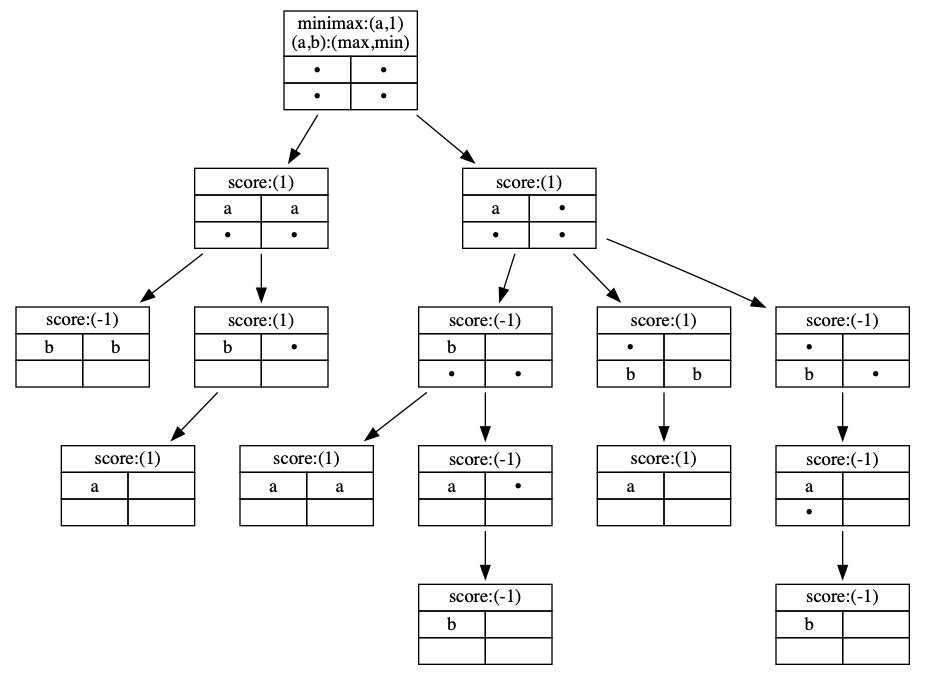
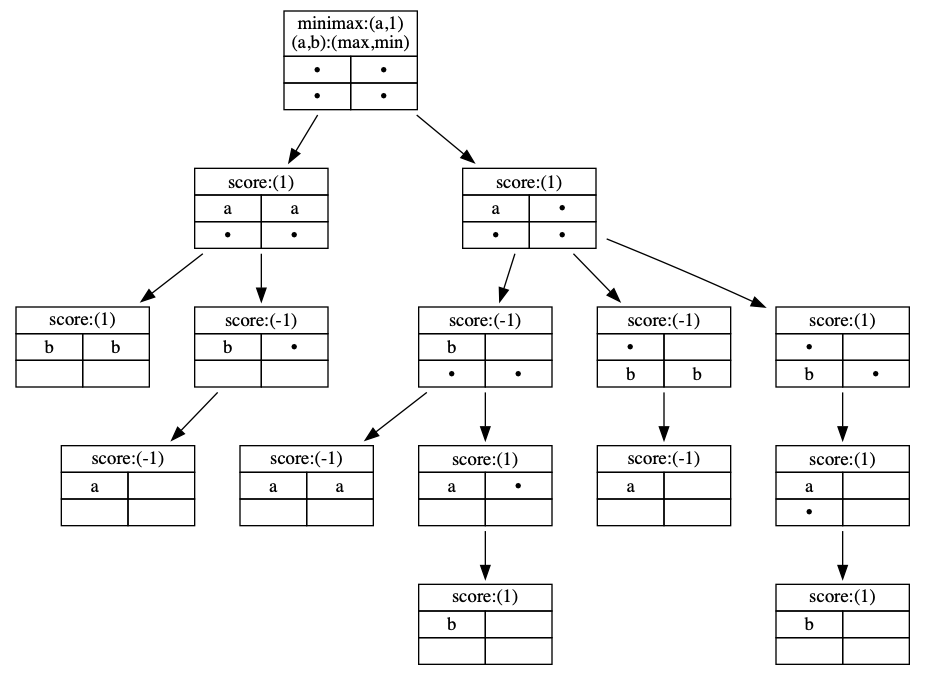
Main script for main minmaxasp

diff --git a/src/players/min_max_asp.py b/src/players/min_max_asp.py
@@ -40,7 +40,8 @@ def get_match(game_def, optimization, fixed_atoms, learned_rules, main_player):
     # Check if it can load from grounded atoms gotten from AS
     ctl.load(game_def.full_time)
     ctl.add("base",[],fixed_atoms)
-    ctl.add("base",[],"".join(learned_rules))
+    if not (learned_rules is None):
+        ctl.add("base",[],"".join(learned_rules))
     ctl.add("base",[],optimization)
     ctl.ground([("base", [])], context=Context())
     with ctl.solve(yield_=True) as handle:
@@ -53,7 +54,7 @@ def get_match(game_def, optimization, fixed_atoms, learned_rules, main_player):
             return None
         return matches[-1]
 
-def get_minmax_init(game_def, main_player, initial, learning_rules = True,
+def get_minmax_init(game_def, main_player, initial, learning_rules = True, learning_examples = False,
                     debug = False):
     """
     Computes the minmax using multiple calls to clingo.
@@ -73,14 +74,13 @@ def get_minmax_init(game_def, main_player, initial, learning_rules = True,
     """
     match  = get_match(game_def,case[main_player][main_player]['optimization'],
                        initial,[],'a')
-    examples_list = []
-    learned_rules = []
+    examples_list = [] if learning_examples else None
+    learned_rules = [] if learning_rules else None
     node = Tree.node_from_match_initial(match)
     minmax_match, minmax_tree = get_minmax_rec(game_def,match,node,0,
                                                main_player,
                                                learned_rules=learned_rules,
                                                list_examples=examples_list,
-                                               learning_rules=learning_rules,
                                                debug=debug)
     minmax_tree=Tree(minmax_tree.parent)
     final_score = minmax_match.goals[main_player]
@@ -89,8 +89,8 @@ def get_minmax_init(game_def, main_player, initial, learning_rules = True,
     return minmax_match, minmax_tree, examples_list, learned_rules
 
 def get_minmax_rec(game_def, match, node_top, top_step, main_player,
-                   old_fixed='', learned_rules=[], level = 0,
-                   list_examples=[], learning_rules=True, debug = False):
+                   old_fixed='', learned_rules=None, level = 0,
+                   list_examples=None, debug = False):
     """
     Computes the recursive call to compute the minmax with asp
     Args:
@@ -105,6 +105,8 @@ def get_minmax_rec(game_def, match, node_top, top_step, main_player,
         - learned_rules: The rules learned for the tree
         - level: The recursion level
     """
+    learning_examples = not (list_examples is None)
+    learning_rules = not (learned_rules is None)
     steps_to_analyze = match.steps[top_step:-1]
     minmax_match = match
     node_top = node_top.leaves[0]
@@ -133,9 +135,10 @@ def get_minmax_rec(game_def, match, node_top, top_step, main_player,
         if case[main_player][control]['current_is_better'](current_goal,
                                                            new_goal):
             # Choosing other action gets a worst result in the best case
-            ex = generate_example(match.steps[i].state,match.steps[i].action,
-                                  opt_match.steps[i].action)
-            list_examples.append(ex)
+            if learning_examples:
+                ex = generate_example(match.steps[i].state,match.steps[i].action,
+                                    opt_match.steps[i].action)
+                list_examples.append(ex)
             if learning_rules:
                 rule = generate_rule(game_def,match.steps[i].state,
                                      match.steps[i].action)
@@ -159,9 +162,10 @@ def get_minmax_rec(game_def, match, node_top, top_step, main_player,
         if case[main_player][control]['current_is_better'](current_goal,
                                                            new_goal):
             # Choosing other action gets a worst result in the best case
-            ex = generate_example(match.steps[i].state,match.steps[i].action,
-                                  opt_minmax.steps[i].action)
-            list_examples.append(ex)
+            if learning_examples:
+                ex = generate_example(match.steps[i].state,match.steps[i].action,
+                                    opt_minmax.steps[i].action)
+                list_examples.append(ex)
             if learning_rules:
                 rule = generate_rule(game_def,match.steps[i].state,
                                      match.steps[i].action)
@@ -172,9 +176,10 @@ def get_minmax_rec(game_def, match, node_top, top_step, main_player,
             # this section will remain unexplored
             continue
         #### New match is better for current player maximized
-        ex = generate_example(match.steps[i].state,opt_minmax.steps[i].action,
-                              match.steps[i].action)
-        list_examples.append(ex)
+        if learning_examples:
+            ex = generate_example(match.steps[i].state,opt_minmax.steps[i].action,
+                                match.steps[i].action)
+            list_examples.append(ex)
         if learning_rules:
             rule = generate_rule(game_def,match.steps[i].state,
                                  opt_minmax.steps[i].action)

diff --git a/src/main_mxasp.py b/src/main_mxasp.py
@@ -1,0 +1,52 @@
+#!/usr/bin/env python
+# -*- coding: utf-8 -*-
+
+import re
+from py_utils import *
+from structures import *
+from players import *
+from game_definitions import *
+
+def main_minmax_asp(path,plaintext,image_file_name,ilasp_examples_file,rules_file):
+    # remove trailing backslash as failsafe
+    html = not plaintext
+    path = re.sub(r"\/$","",path)
+    nim = GameNimDef(path)    
+    initial = nim.get_initial_time()
+    learn_examples = not (ilasp_examples_file is None)
+    learn_rules = not (rules_file is None)
+
+    minmax_match, min_max_tree, examples, learned_rules = get_minmax_init(nim,
+                                                           'a',
+                                                           initial,
+                                                           debug=True,learning_rules=learn_rules, learning_examples=learn_examples)
+    if learn_examples:
+        with open(ilasp_examples_file, "w") as text_file:
+            text_file.write("\n".join(examples))
+    if learn_rules:
+        with open(rules_file, "w") as text_file:
+            text_file.write("\n".join(learned_rules))
+
+    if(image_file_name is None):
+        print(minmax_match)
+    else:
+        min_max_tree.print_in_file(file_name=image_file_name,html=False)
+        print("Tree image saved in {}".format(image_file_name))
+
+
+if __name__ == "__main__":
+    parser = argparse.ArgumentParser(formatter_class=arg_metav_formatter)
+    parser.add_argument("--path", type=str, default="./game_definitions/nim",
+                        help="relative path of game" +
+                        " description language for game")
+    parser.add_argument("--image-file-name", type=str, default=None,
+                        help="output image file name")
+    parser.add_argument("--plaintext", default=False, action="store_true",
+                        help="whether plaintext should be used for visualization")
+    parser.add_argument("--ilasp-examples-file", type=str, default=None,
+                        help="relative path to location where ilasp examples will be saved")
+    parser.add_argument("--rules-file", type=str, default=None,
+                    help="relative path to save rules learned when tree rules are learned while computing minmax")
+    
+    args = parser.parse_args()
+    main_minmax_asp(args.path,args.plaintext,args.image_file_name,args.ilasp_examples_file,args.rules_file)

diff --git a/src/main_match.py b/src/main_match.py
@@ -15,15 +15,17 @@ def main_match(path,depth,pA_style,pB_style,debug):
     nim = GameNimDef(path)
     if "human" in [pA_style,pB_style]:
         debug = True
-    if pA_style != "strategy":
-        pA = {"name":pA_style}
-    else:
-        pA = {"name":pA_style,"strategy_path":path+"/strategy.lp"}
-    if pB_style != "strategy":
-        pB = {"name":pB_style}
-    else:
-        pB = {"name":pB_style,"strategy_path":path+"/strategy.lp"}
-    match = simulate_match(nim,[pA,pB],debug=debug)
+    
+    pl = []
+    for n,p in [("a",pA_style),("b",pB_style)]:
+        conf = {"name":p}
+        if p == "strategy":
+            conf["strategy_path"]=path+"/strategy.lp"
+        if p == "minmax_asp":
+            conf["main_player"]=n
+        pl.append(conf)
+
+    match = simulate_match(nim,pl,debug=debug)
     return match
 
 if __name__ == "__main__":
@@ -35,10 +37,10 @@ if __name__ == "__main__":
                         help="depth to which game should be played")
     parser.add_argument("--pA-style", type=str, default="random",
                         help="playing style for player a;"+
-                        " either 'random', 'strategy' or 'human'")
+                        " either 'minmax_asp', 'random', 'strategy' or 'human'")
     parser.add_argument("--pB-style", type=str, default="random",
                         help="playing style for player b;"+
-                        " either 'random', 'strategy' or 'human'")
+                        " either 'minmax_asp', 'random', 'strategy' or 'human'")
     parser.add_argument("--debug", default=False, action="store_true",
                         help="print debugging information from stack")
     args = parser.parse_args()

diff --git a/src/game_definitions/game_def.py b/src/game_definitions/game_def.py
@@ -24,7 +24,6 @@ class GameDef():
         self.full_time = path + "/full_time.lp"
         self.initial = path + "/initial.lp"
         self.all = path + "/all.lp"
-        # TODO think how to put this inside clingo..
 
 
     def state_to_ascii(self, state):
@@ -51,16 +50,34 @@ class GameDef():
             String with asciii representation
         """
         return NotImplementedError
+    
+    def get_initial_time(self):
+        """
+        Obtains the initial state in full time format
+        """
+        if(self.initial[-3:] == ".lp"):
+            with open(self.initial,"r") as File:
+                lines = File.readlines()
+                content = "".join(lines)
+        else:
+            content = self.initial + ""
+        content = content.replace(").",",0).")
+        content = content.replace("true","holds")
+        return content
+
+        
+
 
 class GameNimDef(GameDef):
     def __init__(self,path="./game_definitions/nim"):
         super().__init__(path)
-        with open(path+"/initial.lp","r") as File:
+        with open(self.initial,"r") as File:
             check = File.readlines()
         check = [[int(els) for els in re.sub(r".*has\((\d+\,\d+)\)\)\.","\g<1>",
                         el.replace("\n","")).split(",")]
                  for el in check if "has" in el]
         check = [ls for ls in check if ls[1] != 0]
+        #TODO pass this as parameters
         self.number_piles = len(check)
         self.max_number = max([ls[1] for ls in check])
         self.subst_var = {"remove":[True,False],

diff --git a/src/py_utils/match_simulation.py b/src/py_utils/match_simulation.py
@@ -25,6 +25,21 @@ def simulate_match(game_def, player_config, depth=None, debug=False):
     depth:
         - n: Generate until depth n or terminal state reached
     """
+
+    def conf_to_player(config):
+        config = defaultdict(lambda: None,config)
+        if(config['name']=="human"):
+            return HumanPlayer()
+        if(config['name']=="strategy"):
+            return StrategyPlayer(config['strategy_path'])
+        if(config['name']=="random"):
+            return RandomPlayer(config['seed'])
+        if(config['name']=="minmax_asp"):
+            return MinmaxASPPlayer(game_def, config['main_player'])
+        # if(config['name']=="ML"):
+        #     return MLPlayer(config['model'])
+
+
     # TODO check options other than default
     players = [conf_to_player(player_config[0]),
                conf_to_player(player_config[1])]
@@ -51,15 +66,4 @@ def simulate_match(game_def, player_config, depth=None, debug=False):
     if debug: print(match)
     return match
 
-def conf_to_player(config):
-    config = defaultdict(lambda: None,config)
-    if(config['name']=="human"):
-        return HumanPlayer()
-    if(config['name']=="strategy"):
-        return StrategyPlayer(config['strategy_path'])
-    if(config['name']=="random"):
-        return RandomPlayer(config['seed'])
-    if(config['name']=="minmax_asp"):
-        return MinmaxASPPlayer(config['game_def'],config['main_player'])
-    # if(config['name']=="ML"):
-    #     return MLPlayer(config['model'])
+

diff --git a/src/players/players.py b/src/players/players.py
@@ -74,7 +74,7 @@ class RandomPlayer(Player):
 
 class MinmaxASPPlayer(Player):
     """
-    Player that chosses an action using the minmax of asp
+    Player that choses an action using the minmax of asp
 
     Attributes
     ----------
@@ -88,7 +88,7 @@ class MinmaxASPPlayer(Player):
     def choose_action(self,state):
         #TODO Give a time limit and save learned rules
         initial = fluents_to_asp_syntax(state.fluents,0)
-        match, tree, ex = get_minmax_init(self.game_def,self.main_player,initial)
+        match, tree, ex, ls = get_minmax_init(self.game_def,self.main_player,initial)
         action_name = symbol_str(match.steps[0].action.action)
         action = [l_a for l_a in state.legal_actions
                   if symbol_str(l_a.action) == action_name][0]

diff --git a/src/tests/test_min_max_asp.py b/src/tests/test_min_max_asp.py
@@ -12,6 +12,8 @@ nim = GameNimDef("./game_definitions/test_nim")
 def test_match_time():
     initial = ('holds(has(1,2),0). holds(has(2,2),0).'+
                ' holds(has(3,0),0). holds(control(a),0).')
+    print("Initital\n\n")
+    print(nim.get_initial_time())
     minmax_match, min_max_tree, examples, learned_rules = get_minmax_init(nim,
                                                            'a',
                                                            initial,
